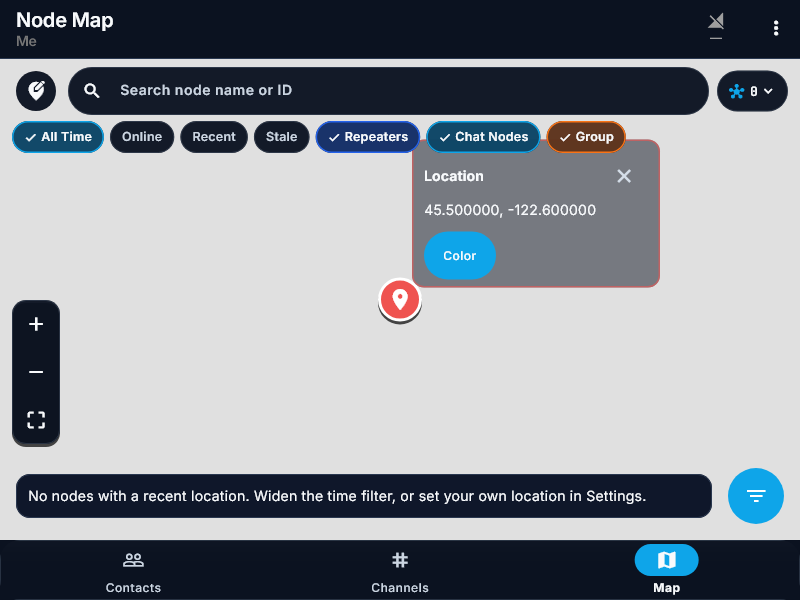
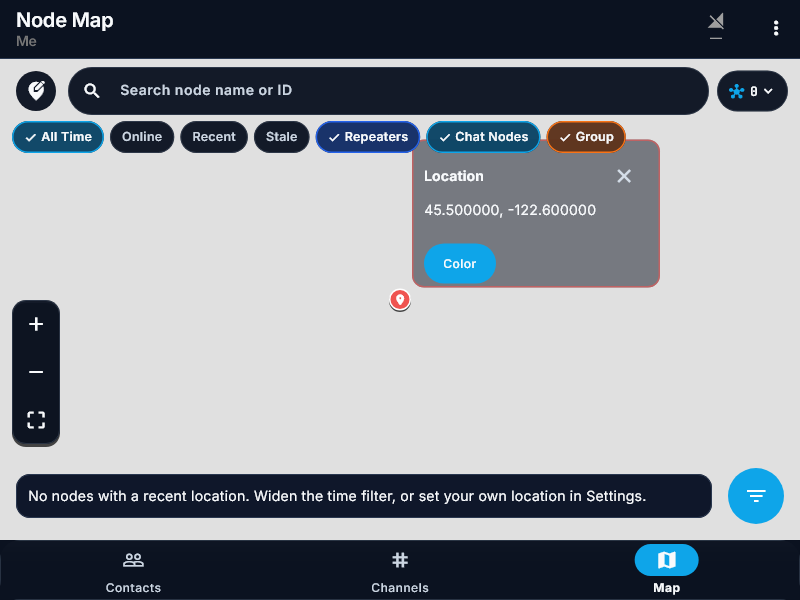
added variable size for pins when zooming happens

Changed region(s): [[0.4688, 0.36, 0.625, 0.54]]

diff --git a/lib/screens/map_screen.dart b/lib/screens/map_screen.dart
@@ -99,6 +99,10 @@ class _MapScreenState extends State<MapScreen> with DisconnectNavigationMixin {
   bool _statsExpanded = false;
   bool _showNodeLabels = true;
   double _zoom = 10.0;
+  static const double _lowZoom = 6.0;
+  static const double _highZoom = 18.0;
+  static const double _minimumScale = 0.20;
+  static const double _maximumScale = 0.60;
   String? _selectedKey;
   LatLng? _selectedGuessPos;
   _Freshness _freshness = _Freshness.all;
@@ -416,6 +420,11 @@ class _MapScreenState extends State<MapScreen> with DisconnectNavigationMixin {
 
         final pin = _highlightPin;
         final highlightPosition = pin?.position;
+        final showHighlightPin = _zoom > 5;
+        final rawProgress = (_zoom - _lowZoom) / (_highZoom - _lowZoom);
+        final zoomProgress = rawProgress.clamp(0.0, 1.0);
+        final pinScale =
+            _minimumScale + (_maximumScale - _minimumScale) * zoomProgress;
         final sharedMarkers = settings.mapShowMarkers
             ? _collectSharedMarkers(
                     connector,
@@ -844,6 +853,13 @@ class _MapScreenState extends State<MapScreen> with DisconnectNavigationMixin {
                       // Track zoom in half-step buckets so cluster/marker
                       // detail levels update without rebuilding every frame.
                       final bucket = (camera.zoom * 2).roundToDouble() / 2;
+
+                      if (kDebugMode && bucket != _zoom) {
+                        debugPrint(
+                          'Map zoom: ${camera.zoom.toStringAsFixed(2)}',
+                        );
+                      }
+
                       final shouldShow = camera.zoom >= _labelZoomThreshold;
                       if ((bucket != _zoom || shouldShow != _showNodeLabels) &&
                           mounted) {
@@ -862,38 +878,49 @@ class _MapScreenState extends State<MapScreen> with DisconnectNavigationMixin {
                       PolylineLayer(polylines: sharedMarkerPolylines),
                     MarkerLayer(
                       markers: [
-                        if (pin != null)
+                        if (pin != null && showHighlightPin)
                           Marker(
                             point: pin.position,
-                            width: 44,
-                            height: 44,
+                            width: 48,
+                            height: 48,
                             child: GestureDetector(
+                              behavior: HitTestBehavior.deferToChild,
                               onTap: () {
                                 setState(() {
                                   _isHighlightPinSelected =
                                       !_isHighlightPinSelected;
                                 });
                               },
-                              child: Container(
-                                decoration: BoxDecoration(
-                                  shape: BoxShape.circle,
-                                  color: pin.color,
-                                  border: Border.all(
-                                    color: MapPalette.markerOutline,
-                                    width: 3,
-                                  ),
-                                  boxShadow: const [
-                                    BoxShadow(
-                                      color: MapPalette.markerShadow,
-                                      blurRadius: 8,
-                                      offset: Offset(0, 3),
+                              child: Center(
+                                child: Transform.scale(
+                                  scale: pinScale,
+                                  alignment: Alignment.center,
+                                  child: SizedBox(
+                                    width: 44,
+                                    height: 44,
+                                    child: Container(
+                                      decoration: BoxDecoration(
+                                        shape: BoxShape.circle,
+                                        color: pin.color,
+                                        border: Border.all(
+                                          color: MapPalette.markerOutline,
+                                          width: 3,
+                                        ),
+                                        boxShadow: const [
+                                          BoxShadow(
+                                            color: MapPalette.markerShadow,
+                                            blurRadius: 8,
+                                            offset: Offset(0, 3),
+                                          ),
+                                        ],
+                                      ),
+                                      child: const Icon(
+                                        Icons.location_on,
+                                        color: Colors.white,
+                                        size: 25,
+                                      ),
                                     ),
-                                  ],
-                                ),
-                                child: const Icon(
-                                  Icons.location_on,
-                                  color: Colors.white,
-                                  size: 25,
+                                  ),
                                 ),
                               ),
                             ),
@@ -974,7 +1001,9 @@ class _MapScreenState extends State<MapScreen> with DisconnectNavigationMixin {
                           ),
                       ],
                     ),
-                    if (pin != null && _isHighlightPinSelected)
+                    if (pin != null &&
+                        showHighlightPin &&
+                        _isHighlightPinSelected)
                       MarkerLayer(
                         markers: [
                           Marker(

diff --git a/test/screens/location_sharing_test.dart b/test/screens/location_sharing_test.dart
@@ -242,8 +242,17 @@ Future<void> _capture(WidgetTester tester, String name) async {
 
 Color _highlightPinFill(WidgetTester tester) {
   final layer = tester.widgetList<MarkerLayer>(find.byType(MarkerLayer)).first;
-  final gesture = layer.markers.first.child as GestureDetector;
-  final container = gesture.child! as Container;
+  final container = tester.widget<Container>(
+    find.descendant(
+      of: find.byWidget(layer.markers.first.child),
+      matching: find.byWidgetPredicate(
+        (widget) =>
+            widget is Container &&
+            widget.decoration is BoxDecoration &&
+            (widget.decoration! as BoxDecoration).shape == BoxShape.circle,
+      ),
+    ),
+  );
   return (container.decoration! as BoxDecoration).color!;
 }
 
@@ -544,6 +553,37 @@ void main() {
       );
     }
   }
+
+  testWidgets('selected pin and card hide and return together with zoom', (
+    tester,
+  ) async {
+    await _pumpChat(
+      tester,
+      connector,
+      channel: false,
+      home: const MapScreen(highlightPosition: LatLng(45.5, -122.6)),
+    );
+    await tester.tap(find.byIcon(Icons.location_on));
+    await tester.pumpAndSettle();
+    await _openPinColorDialog(tester);
+    await _applyPinColor(tester, 'Blue');
+    expect(find.byTooltip('Pin color'), findsOneWidget);
+
+    final controller = tester
+        .widget<FlutterMap>(find.byType(FlutterMap))
+        .mapController!;
+    controller.move(controller.camera.center, 5);
+    await tester.pumpAndSettle();
+    expect(find.byIcon(Icons.location_on), findsNothing);
+    expect(find.byTooltip('Pin color'), findsNothing);
+
+    controller.move(controller.camera.center, 5.5);
+    await tester.pumpAndSettle();
+    expect(find.byIcon(Icons.location_on), findsOneWidget);
+    expect(find.byTooltip('Pin color'), findsOneWidget);
+    expect(_highlightPinFill(tester), Colors.blue);
+    expect(tester.takeException(), isNull);
+  });
 
   testWidgets('separate pin views retain independent colors', (tester) async {
     await _pumpChat(

diff --git a/documentation/map-and-location.md b/documentation/map-and-location.md
@@ -40,6 +40,8 @@ Tap a pin to see its info. Options to "Hide" (session only) or "Remove" (persist
 
 When you open a location from chat, tap its highlighted pin to show a small info card beside it. The card follows the pin as you pan and zoom, and the rest of the map stays interactive. Close the card with its close button or tap the highlighted pin again.
 
+The highlighted pin drawing shrinks as you zoom out and grows up to a fixed maximum as you zoom in. At the app's tracked zoom level of 5 or below, both the pin and its open card hide. Zooming back in restores the pin and any previously open card, preserving its selected color. The card itself keeps its current size; pin-size updates currently follow half-level zoom steps.
+
 ![Highlighted location card with a bold title and pill-shaped Color button](../docs/screenshots/map-pin-info-card.png)
 
 The location/name at the top of the card is bold. Tap the small pill-shaped **Color** button to open the color dialog. It has two rows of eight choices: 15 presets and **Custom** in the last position (row 2, column 8). On narrow screens, scroll the palette horizontally to reach every choice. The red presets are **Light red** (`#EF5350`) and **Rich red** (`#B71C1C`); amber and light blue are no longer presets.
